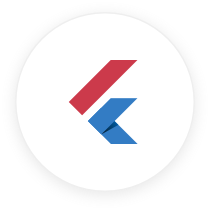
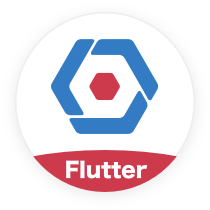
更新logo

Changed region(s): [[0.2286, 0.1714, 0.7714, 0.6857], [0.1429, 0.7143, 0.8571, 0.9143]]

diff --git a/Flutter/dokit_library/CHANGELOG.md b/Flutter/dokit_library/CHANGELOG.md
@@ -1,1 +1,2 @@
+## [0.2.2] - 修改文档和logo.
 ## [0.2.0] - 开源第一版.
